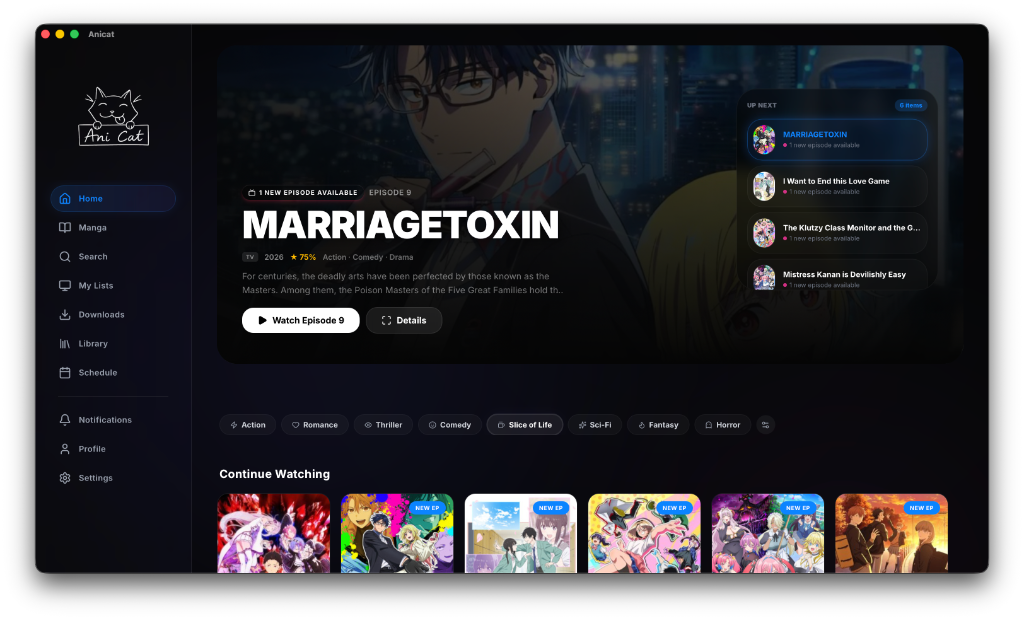
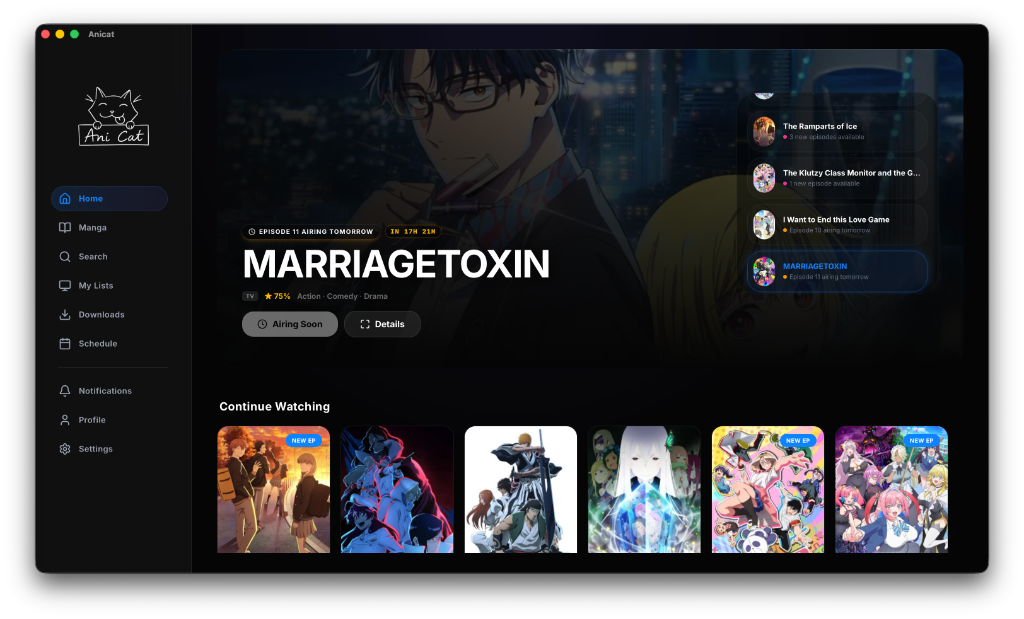
fix: resolve 'airing today' countdown label bug, disable CI workflows, and update README

diff --git a/web/src/components/media/Hero.tsx b/web/src/components/media/Hero.tsx
@@ -137,22 +137,39 @@ const Hero = memo(function Hero({
         const now = Date.now();
         const timeDiff = airingTime - now;
 
+        const airingDate = new Date(airingTime);
+        const currentDate = new Date(now);
+        const isSameDay = airingDate.getDate() === currentDate.getDate() &&
+                          airingDate.getMonth() === currentDate.getMonth() &&
+                          airingDate.getFullYear() === currentDate.getFullYear();
+
+        const tomorrowDate = new Date(now + 86400000);
+        const isTomorrow = airingDate.getDate() === tomorrowDate.getDate() &&
+                           airingDate.getMonth() === tomorrowDate.getMonth() &&
+                           airingDate.getFullYear() === tomorrowDate.getFullYear();
+
         if (timeDiff <= 0) {
           const progress = item.user_status?.progress || 0;
           const nextEpNum = nextAiring.episode;
           const isUnwatched = nextEpNum > progress;
+          const label = isSameDay ? `Episode ${nextEpNum} aired today` : `Episode ${nextEpNum} aired`;
           items.push({
             item,
             type: "airing_today",
-            reasonText: `Episode ${nextEpNum} aired today`,
+            reasonText: label,
             badgeColor: "bg-gradient-to-r from-emerald-500 to-teal-500 shadow-md shadow-emerald-500/20 text-white border-t border-white/10",
             playEpisode: isUnwatched ? String(nextEpNum) : null,
           });
         } else {
+          const label = isSameDay
+            ? `Episode ${nextAiring.episode} airing today`
+            : isTomorrow
+              ? `Episode ${nextAiring.episode} airing tomorrow`
+              : `Episode ${nextAiring.episode} airing soon`;
           items.push({
             item,
             type: "airing_today",
-            reasonText: `Episode ${nextAiring.episode} airing today`,
+            reasonText: label,
             badgeColor: "bg-gradient-to-r from-amber-500 to-orange-500 shadow-md shadow-amber-500/20 text-white border-t border-white/10",
             playEpisode: null,
           });

diff --git a/README.md b/README.md
@@ -44,7 +44,9 @@ curl -fsSL https://raw.githubusercontent.com/bonkedbythonk/anicat/master/scripts
 
 ```bash
 git clone https://github.com/bonkedbythonk/anicat.git
-cd anicat/web
+cd anicat
+uv sync
+cd web
 npm install
 npm run tauri dev
 ```
